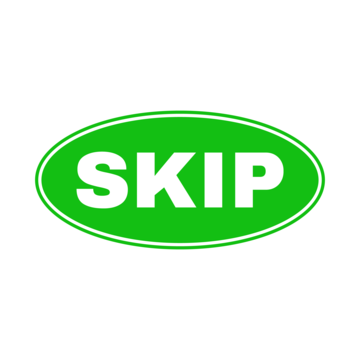
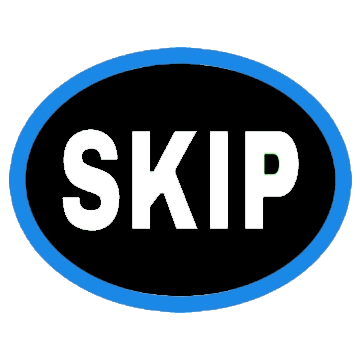
last commit before merge attempt

diff --git a/src/main.ts b/src/main.ts
@@ -8,7 +8,6 @@ import { Question } from "./questionType";
 //  WELCOME SELECTORS
 
 const startGameButton = document.querySelector<HTMLDivElement>(".startGame");
-
 const welcomeContainer = document.querySelector<HTMLDivElement>(
   ".welcome__container"
 );
@@ -87,10 +86,11 @@ async function APICall(apiUrl: string) {
       return response.json();
     })
     .then((data) => {
-      console.log("data", data);
+      console.log("returned object", data);
       data.results.forEach((question: Question) => {
         questionArray.push(question);
       });
+      console.log("question array", questionArray);
     })
     .catch((error) => {
       console.error("Error:", error);
@@ -168,6 +168,8 @@ const answerSelected = (event: Event): void => {
 };
 
 const endGame = () => {
+  questionArray = [];
+  console.log("question array end game", questionArray);
   questionContainer.style.display = "none";
   answerContainer.style.display = "none";
   lifeLineArray.forEach((lifeline) => {
@@ -183,7 +185,6 @@ const endGame = () => {
   }
   modal.style.display = "block";
   APICall(apiBuiltUrl);
-  console.log(APICall(apiBuiltUrl));
   populateQuestionsAndAnswers(sortAnswers(questionArray[0]));
   console.log("questionArray", questionArray);
 };
@@ -263,22 +264,6 @@ const startGame = (): void => {
   console.log(correctAnswer);
 };
 
-// const nextQuestionTestMethod = (): void => {
-//   nextQuestion();
-//   if (questionIndex === 16) {
-//     endGame();
-//   }
-// };
-
-// const endGameTestMethod = (): void => {
-//   questionContainer.style.display = "none";
-//   answerContainer.style.display = "none";
-//   lifeLineArray.forEach((lifeline) => {
-//     lifeline.style.display = "none";
-//   });
-//   modal.style.display = "block";
-// };
-
 /*
   Event Listeners 
 */
@@ -297,38 +282,22 @@ lifeLineArray.forEach((lifeline) => {
 
 playAgain.addEventListener("click", startGame);
 
-// countdown
+/* Timer
+ */
+let timeLeft = 30;
+const timer = document.querySelector(".timer__text");
 
-// when countdown reaches 0 select answer
-// change how answers are selected
-// button for establish answer
-// selelected answer to turn orange
+if (!timer) {
+  throw new Error("there is something wrong with the timer");
+}
 
-// // Set the date we're counting down to
-// var countDownDate = new Date("Jan 5, 2030 15:37:25").getTime();
+const countdown = () => {
+  if (timeLeft == 0) {
+    clearTimeout(timerId);
+  } else {
+    timer.innerHTML = String(timeLeft);
+    timeLeft--;
+  }
+};
 
-// // Update the count down every 1 second
-// var x = setInterval(function() {
-
-//   // Get today's date and time
-//   var now = new Date().getTime();
-
-//   // Find the distance between now and the count down date
-//   var distance = countDownDate - now;
-
-//   // Time calculations for days, hours, minutes and seconds
-//   var days = Math.floor(distance / (1000 * 60 * 60 * 24));
-//   var hours = Math.floor((distance % (1000 * 60 * 60 * 24)) / (1000 * 60 * 60));
-//   var minutes = Math.floor((distance % (1000 * 60 * 60)) / (1000 * 60));
-//   var seconds = Math.floor((distance % (1000 * 60)) / 1000);
-
-//   // Display the result in the element with id="demo"
-//   document.getElementById("demo").innerHTML = days + "d " + hours + "h "
-//   + minutes + "m " + seconds + "s ";
-
-//   // If the count down is finished, write some text
-//   if (distance < 0) {
-//     clearInterval(x);
-//     document.getElementById("demo").innerHTML = "EXPIRED";
-//   }
-// }, 1000);
+let timerId = setInterval(countdown, 1000);

diff --git a/index.html b/index.html
@@ -36,8 +36,10 @@
           </div>
           <div class="lifeline__container">
             <img class="lifeline__img" id="skip" src='./src/images/skip.png'></img>
-            <img class="lifeline__img" src='./src/images/asktheaudience.webp'></img>
             <img class="lifeline__img" id="fiftyFifty" src='./src/images/5050.webp'></img>
+          </div>
+          <div class="timer__container">
+            <p class="timer__text"></p>
           </div>
         </section>
         <!-- MONEY TREE  -->

diff --git a/src/styles/questionAndAnswerContainer.scss b/src/styles/questionAndAnswerContainer.scss
@@ -80,4 +80,23 @@
     margin-left: 160px;
     margin-top: 20px;
   }
+
+  #skip {
+    margin-left: 32%;
+    scale: 1.2;
+  }
+
+  .timer__container {
+    display: none;
+    background-color: white;
+    width: 30%;
+    margin-left: 35%;
+    text-align: center;
+    padding-top: 0.5px;
+    padding-bottom: 0.5px;
+  }
+
+  .timer__text {
+    font-size: 25px;
+  }
 }

diff --git a/README.md b/README.md
@@ -9,6 +9,7 @@ WHAT TO DO NOW
 // /////////////// change how answers are selected
 // /////////////// button for establish answer
 // /////////////// selelected answer to turn orange
+
 ////// mobile version
 ////// BANK FEATURE
 ////// DEPLOY
@@ -18,8 +19,7 @@ WHAT TO DO NOW
 
 NEED TO DO
 STYLING OF END GAME SCREEN
-REMOVE OPEN MODAL
-REMOVE NEXT QUESTION
+
 CHANGE SIZE OF SKIP BUTTON AND COLOUR IT BLUE
 REMOVE ASK THE AUDIENCE
 
@@ -33,6 +33,5 @@ lifeLine fiftyFifty
 
 BUG
 IF FAST ERROR IS INCORRECT PLAYERS SHOULD GO HOME WITH 0 not 100
-FIGURE OUT WHAT TO DO IF THE NETWORK RESPONCE IS BAD WHEN THE GAME END's POTENTIALLY HAVE A BUTTON THAT YOU HAVE TO RECLICK IF IT DOESN'T WORK
+
 FIX ERRROR WHERE FIRST NUMBER DOESN't FILL UP PURPLE
-WHEN THE GAME RESTARTS REMOVE ALL OF THE ELEMENTS FROM THE QUESTION ARRAY BEFORE ADDING THEM AGAIN
